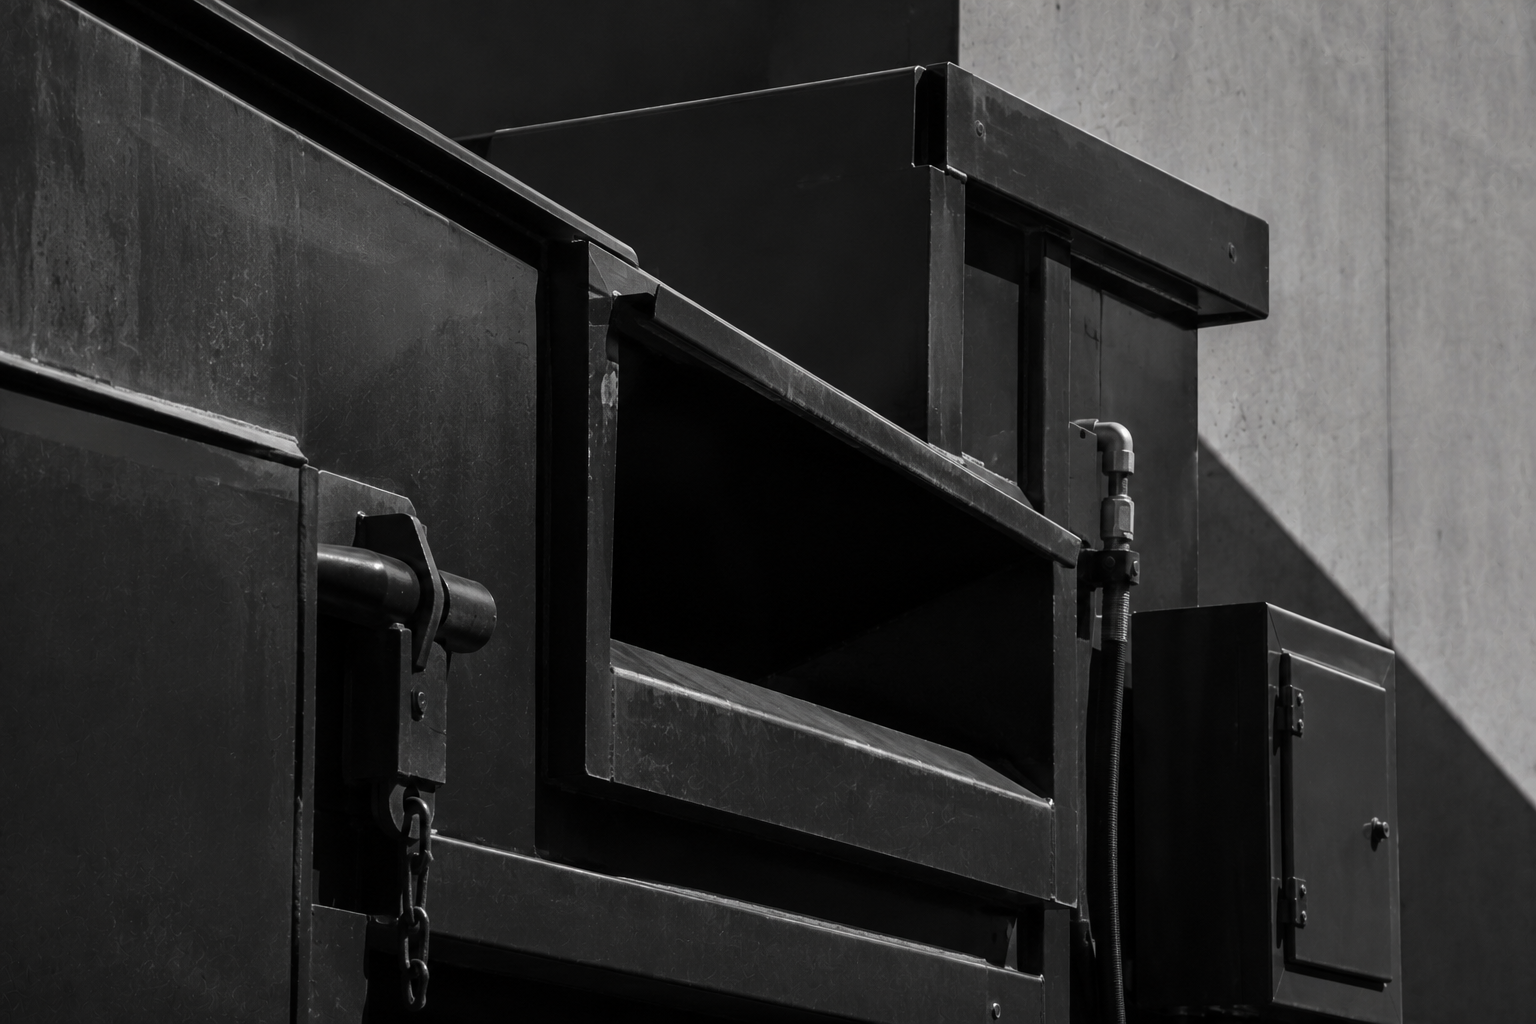
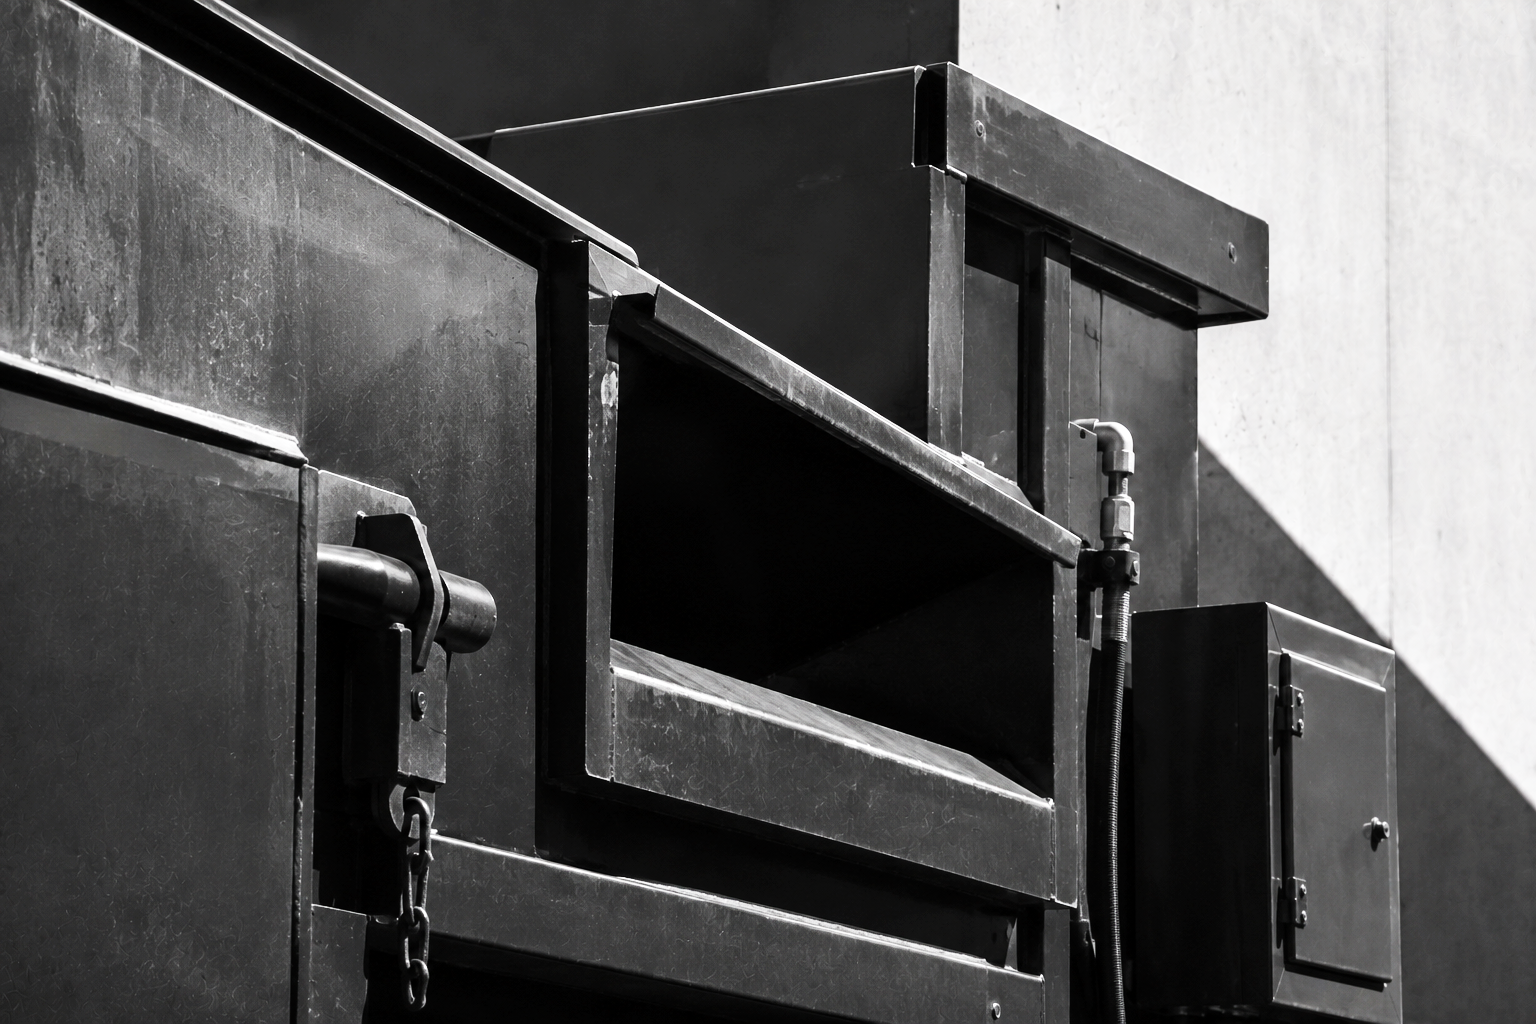
Route renames, redirects, h1 line breaks, who-we-do-it-for photo, updated images
Routes:
- /what-we-find → /overpaying
- /how-it-works → /how-we-fix-it
- /who-we-work-with → /who-we-do-it-for
- /about → /who-we-are
- 308 redirects in next.config.ts for all old paths

Homepage title: removed leading "WMRS - " to fix duplicate in <title> tag
How We Fix It h1: split into array for forced 3-line break
Who We Do It For: aerial logistics facility photo added, 50/50 split
Updated images: what-we-find.png and how-it-works.png (brightness/contrast tweaks)

diff --git a/app/(marketing)/who-we-do-it-for/page.tsx b/app/(marketing)/who-we-do-it-for/page.tsx
@@ -1,5 +1,6 @@
 import type { Metadata } from "next";
 import Link from "next/link";
+import Image from "next/image";
 import { Container } from "@/components/Container";
 import { meta, whoWeWorkWith, industries, caseStudies, company } from "@/content/site";
 
@@ -17,8 +18,16 @@ export default function WhoWeWorkWith() {
     <>
       {/* ── Hero ─────────────────────────────────────────────────────────── */}
       <section className="relative bg-white overflow-hidden">
-        {/* Image slot — replace div with <Image fill> when ready */}
-        <div className="hidden lg:block absolute top-0 right-0 bottom-0 w-[40%] bg-charcoal/6 border-l border-charcoal/10" />
+        <div className="hidden lg:block absolute top-0 right-0 bottom-0 w-1/2">
+          <Image
+            src="/who-we-do-it-for.jpg"
+            alt="Aerial view of a logistics facility with loading docks"
+            fill
+            className="object-cover object-center"
+            sizes="50vw"
+            priority
+          />
+        </div>
         <Container className="relative py-20 lg:py-28">
           <div className="lg:w-[60%] lg:pr-16">
             <h1 className="text-4xl sm:text-5xl xl:text-6xl font-black text-charcoal leading-[1.08] mb-6">
@@ -29,7 +38,15 @@ export default function WhoWeWorkWith() {
             </p>
           </div>
         </Container>
-        <div className="lg:hidden aspect-[4/3] bg-charcoal/6 border-t border-charcoal/10" />
+        <div className="lg:hidden relative aspect-[4/3]">
+          <Image
+            src="/who-we-do-it-for.jpg"
+            alt="Aerial view of a logistics facility with loading docks"
+            fill
+            className="object-cover object-center"
+            sizes="100vw"
+          />
+        </div>
       </section>
 
       {/* ── Industries grid ───────────────────────────────────────────────── */}

diff --git a/content/site.ts b/content/site.ts
@@ -18,17 +18,17 @@ export const company = {
 // ─── Navigation ───────────────────────────────────────────────────────────────
 
 export const navLinks = [
-  { label: "What You're Overpaying", href: "/what-we-find" },
-  { label: "How We Fix It", href: "/how-it-works" },
-  { label: "Who We Do It For", href: "/who-we-work-with" },
-  { label: "Who We Are", href: "/about" },
+  { label: "What You're Overpaying", href: "/overpaying" },
+  { label: "How We Fix It", href: "/how-we-fix-it" },
+  { label: "Who We Do It For", href: "/who-we-do-it-for" },
+  { label: "Who We Are", href: "/who-we-are" },
 ];
 
 // ─── Per-page SEO metadata ────────────────────────────────────────────────────
 
 export const meta = {
   home: {
-    title: "WMRS - Waste Cost Reduction for Multi-Location Businesses",
+    title: "Waste Cost Reduction for Multi-Location Businesses",
     description:
       "WMRS audits your waste and recycling invoices, renegotiates your rates, and takes over the billing. Free audit, no upfront cost - you keep 50% of what we save.",
   },
@@ -279,7 +279,7 @@ export const industries = [
 export const howItWorksPage = {
   hero: {
     label: "The Process",
-    h1: "A free audit. A negotiation. A fixed bill.",
+    h1: ["A free audit.", "A negotiation.", "A fixed bill."],
     sub: "No meetings up front, no contracts, no fees until we've saved you money. Here's exactly what happens.",
   },
   steps: [

diff --git a/app/(marketing)/page.tsx b/app/(marketing)/page.tsx
@@ -139,7 +139,7 @@ export default function HomePage() {
           </div>
           <div className="mt-10 max-w-3xl">
             <Link
-              href="/how-it-works"
+              href="/how-we-fix-it"
               className="text-sm font-semibold text-charcoal/60 hover:text-charcoal transition-colors underline-offset-4 hover:underline"
             >
               Full process detail →
@@ -181,7 +181,7 @@ export default function HomePage() {
           </div>
           <div className="mt-10">
             <Link
-              href="/what-we-find"
+              href="/overpaying"
               className="text-sm font-semibold text-charcoal/60 hover:text-charcoal transition-colors underline-offset-4 hover:underline"
             >
               Detail on each overcharge →

diff --git a/app/(marketing)/how-we-fix-it/page.tsx b/app/(marketing)/how-we-fix-it/page.tsx
@@ -31,7 +31,9 @@ export default function HowItWorksPage() {
         <Container className="relative py-20 lg:py-28">
           <div className="lg:w-1/2 lg:pr-16">
             <h1 className="text-4xl sm:text-5xl xl:text-6xl font-black text-charcoal leading-[1.08] mb-6">
-              {howItWorksPage.hero.h1}
+              {howItWorksPage.hero.h1[0]}<br />
+              {howItWorksPage.hero.h1[1]}<br />
+              {howItWorksPage.hero.h1[2]}
             </h1>
             <p className="text-base lg:text-lg text-charcoal/65 leading-relaxed">
               {howItWorksPage.hero.sub}

diff --git a/next.config.ts b/next.config.ts
@@ -1,5 +1,14 @@
 import type { NextConfig } from "next";
 
-const nextConfig: NextConfig = {};
+const nextConfig: NextConfig = {
+  async redirects() {
+    return [
+      { source: "/what-we-find",    destination: "/overpaying",      permanent: true },
+      { source: "/how-it-works",    destination: "/how-we-fix-it",   permanent: true },
+      { source: "/who-we-work-with",destination: "/who-we-do-it-for",permanent: true },
+      { source: "/about",           destination: "/who-we-are",      permanent: true },
+    ];
+  },
+};
 
 export default nextConfig;
